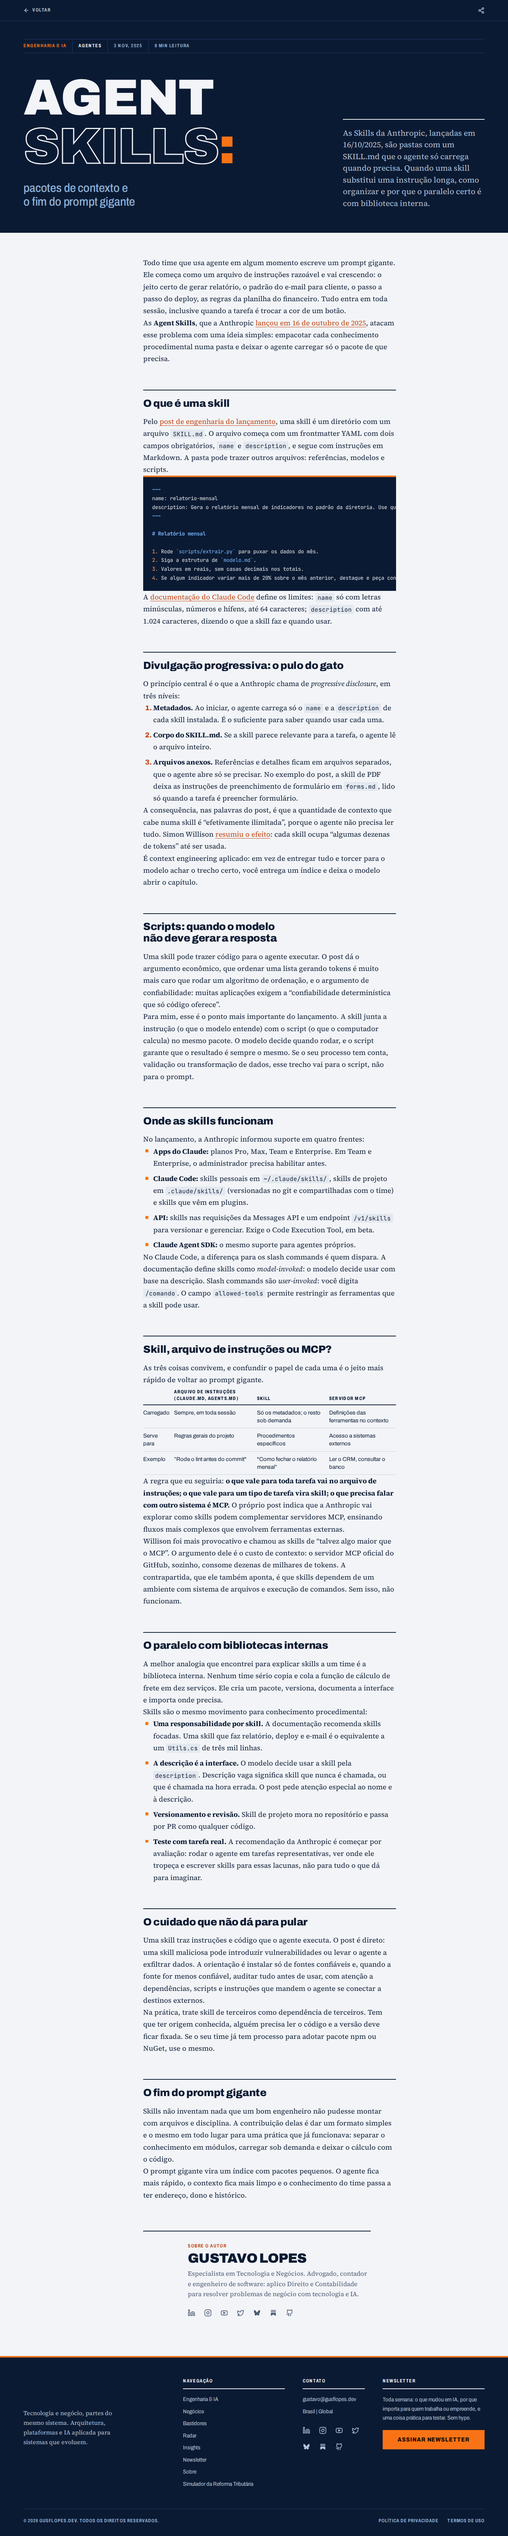
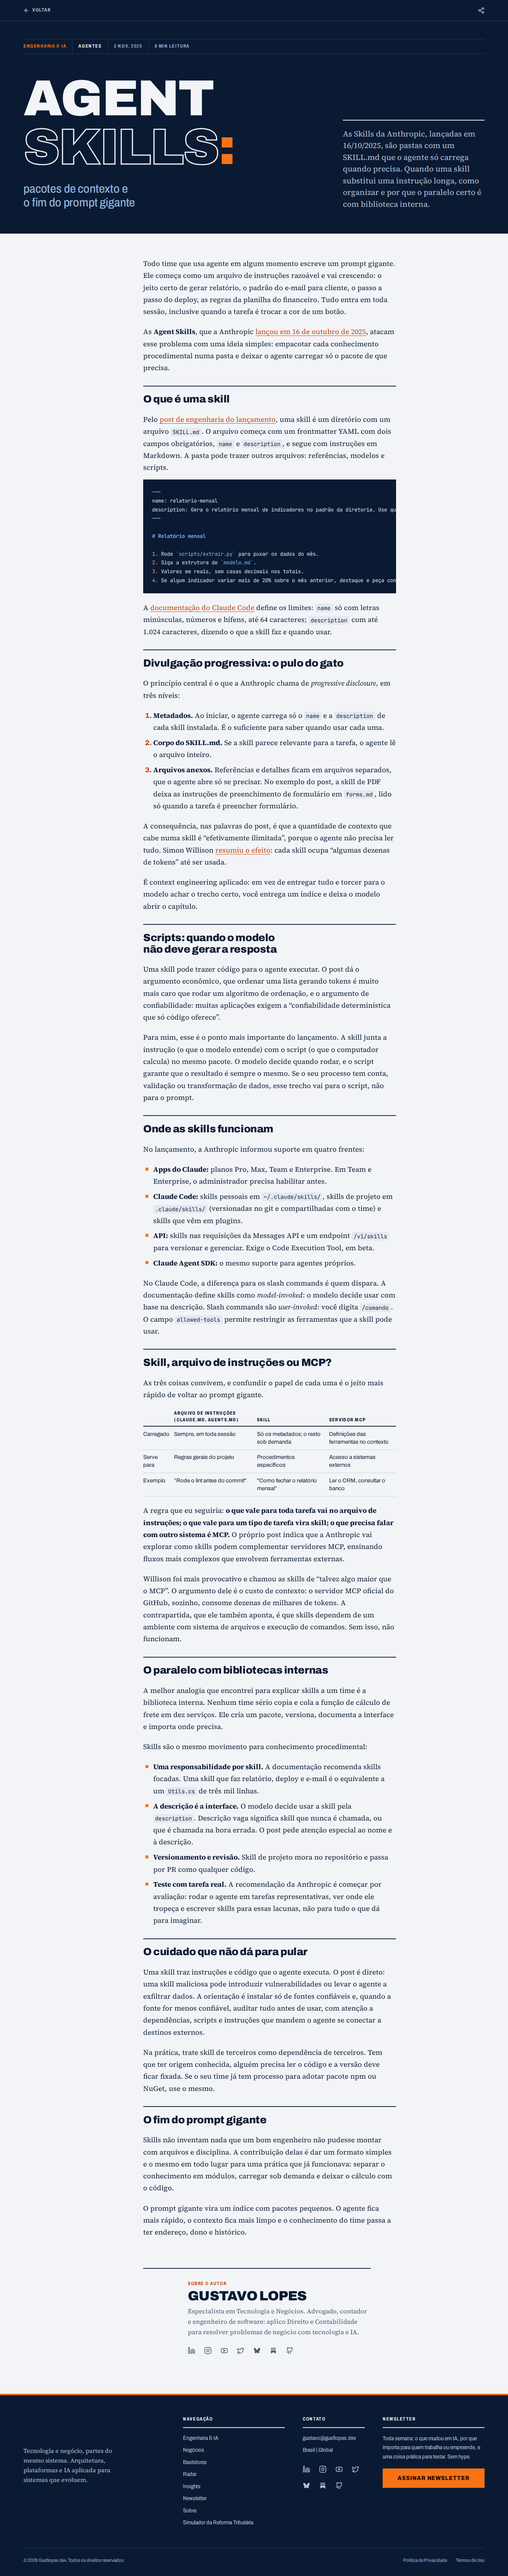
fix(design): ajustes do detector Impeccable e screenshots de revisão (desktop 1366 e mobile 390)
Claude-Session: https://claude.ai/code/session_01G5QirRtrqW1g2QHV9fAH4M

diff --git a/src/components/Footer.tsx b/src/components/Footer.tsx
@@ -8,7 +8,9 @@ const link = 'text-ceu-claro hover:text-papel transition-colors';
 
 export function Footer() {
   return (
-    <footer className="campo-azul border-t-4 border-laranja pt-14 pb-8">
+    <footer className="campo-azul pb-8">
+      <div className="h-1 bg-laranja" aria-hidden="true" />
+      <div className="pt-14" />
       <div className="moldura">
         <div className="grid grid-cols-1 md:grid-cols-2 lg:grid-cols-12 gap-x-[var(--gutter)] gap-y-12 mb-14">
           <div className="lg:col-span-4">
@@ -55,10 +57,10 @@ export function Footer() {
         </div>
 
         <div className="border-t border-azul-3 pt-6 flex flex-col md:flex-row justify-between gap-4">
-          <p className="rotulo !tracking-[0.08em] text-ceu">
+          <p className="font-sans [font-stretch:87%] text-[0.8125rem] text-ceu">
             © {new Date().getFullYear()} Gusflopes.dev. Todos os direitos reservados.
           </p>
-          <div className="flex gap-6 rotulo !tracking-[0.08em]">
+          <div className="flex gap-6 font-sans [font-stretch:87%] text-[0.8125rem]">
             <a href="/privacy" className="text-ceu hover:text-papel">Política de Privacidade</a>
             <a href="/terms" className="text-ceu hover:text-papel">Termos de Uso</a>
           </div>

diff --git a/src/index.css b/src/index.css
@@ -128,7 +128,7 @@
     font-stretch: 75%;
     font-weight: 650;
     font-size: 0.8125rem;
-    line-height: 1.2;
+    line-height: 1.35;
     letter-spacing: 0.12em;
     text-transform: uppercase;
   }
@@ -183,15 +183,14 @@
     text-transform: uppercase;
     text-decoration: none;
     color: var(--laranja);
-    background-image: linear-gradient(currentColor, currentColor);
-    background-size: 0 2px;
-    background-position: 0 100%;
-    background-repeat: no-repeat;
-    padding-bottom: 3px;
-    transition: background-size 220ms cubic-bezier(0.16, 1, 0.3, 1);
+    text-decoration-line: underline;
+    text-decoration-thickness: 2px;
+    text-underline-offset: 0.35em;
+    text-decoration-color: transparent;
+    transition: text-decoration-color 200ms cubic-bezier(0.16, 1, 0.3, 1);
   }
   .acao:hover {
-    background-size: 100% 2px;
+    text-decoration-color: currentColor;
   }
   .campo-papel .acao {
     color: var(--laranja-fundo);
@@ -447,7 +446,6 @@
     overflow-x: auto;
     background: #0b1a33 !important;
     color: #f2f4f7;
-    border-top: 4px solid var(--laranja);
     max-width: 100%;
     tab-size: 2;
   }

diff --git a/src/components/LatestContent.tsx b/src/components/LatestContent.tsx
@@ -63,7 +63,7 @@ export function LatestContent({ articles, video }: LatestContentProps) {
                 <Play size={28} strokeWidth={2.5} fill="currentColor" className="ml-1" />
               </span>
               <span className="block">
-                <span className="block font-sans font-black text-[1.75rem] md:text-[2.25rem] leading-[1.02] tracking-[-0.015em] uppercase text-papel mb-4 text-balance group-hover:text-laranja-claro transition-colors">
+                <span className="block font-sans font-extrabold [font-stretch:87%] text-[1.75rem] md:text-[2.125rem] leading-[1.06] tracking-[-0.012em] text-papel mb-4 text-balance group-hover:text-laranja-claro transition-colors">
                   {video.title}
                 </span>
                 <span className="block font-serif text-[1.0625rem] leading-relaxed text-ceu-claro max-w-[44ch]">{video.excerpt}</span>

diff --git a/src/components/pages/InsightsPage.tsx b/src/components/pages/InsightsPage.tsx
@@ -135,7 +135,7 @@ export function InsightsPage({
             </div>
             <div className="lg:col-span-5 border-t-2 border-papel pt-4">
               <p className="font-serif text-[1.1875rem] leading-relaxed text-ceu-claro">{subheading}</p>
-              {eixo && <p className="rotulo mt-4 text-laranja">{EIXOS[eixo].publico}</p>}
+              {eixo && <p className="mt-4 font-sans font-semibold [font-stretch:87%] text-[1rem] leading-snug text-laranja">{EIXOS[eixo].publico}</p>}
             </div>
           </div>
         </div>

diff --git a/src/components/Header.tsx b/src/components/Header.tsx
@@ -93,7 +93,7 @@ export function Header({ pathname: rawPathname, eixosAtivos = [] }: HeaderProps)
       </div>
 
       {isMenuOpen && (
-        <div id="menu-movel" className="lg:hidden absolute top-full inset-x-0 campo-azul border-b-4 border-laranja">
+        <div id="menu-movel" className="lg:hidden absolute top-full inset-x-0 campo-azul border-b-2 border-laranja">
           <nav aria-label="Principal" className="moldura flex flex-col py-2">
             {navItems.map((item) => {
               const ativo = isActive(item.href);

diff --git a/src/components/Eixos.tsx b/src/components/Eixos.tsx
@@ -48,7 +48,7 @@ export function Eixos({ eixos }: EixosProps) {
                     {eixo.label}
                   </a>
                 </h3>
-                <p className="rotulo text-tinta-2 mb-4">{eixo.publico}</p>
+                <p className="font-sans font-semibold [font-stretch:87%] text-[0.9375rem] leading-snug text-tinta-2 mb-4">{eixo.publico}</p>
                 <p className="font-serif text-[1.0625rem] leading-relaxed text-tinta mb-6 flex-grow">{eixo.descricao}</p>
 
                 {destaque && (

diff --git a/src/components/NewsletterCta.tsx b/src/components/NewsletterCta.tsx
@@ -7,7 +7,7 @@ import { SocialLinks } from './SocialLinks';
  */
 export function NewsletterCta({ content }: { content: string }) {
   return (
-    <div className="campo-azul border-t-4 border-laranja p-6 md:p-8">
+    <div className="campo-azul p-6 md:p-8">
       <p className="font-sans font-medium [font-stretch:87%] text-[1.25rem] md:text-[1.375rem] leading-snug text-papel mb-6 max-w-[40ch]">{newsletter.pitch}</p>
       {newsletter.substack ? (
         <a
